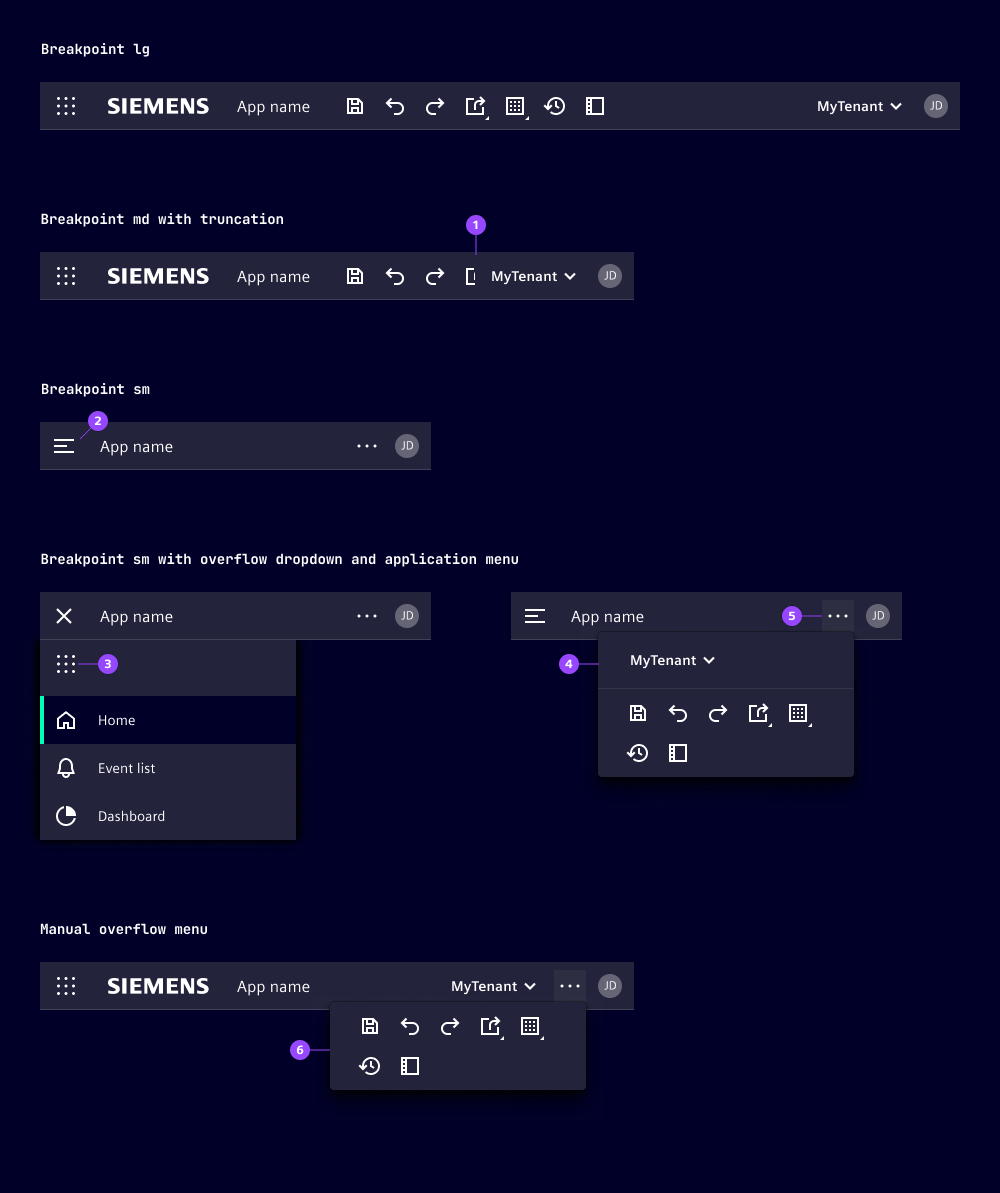
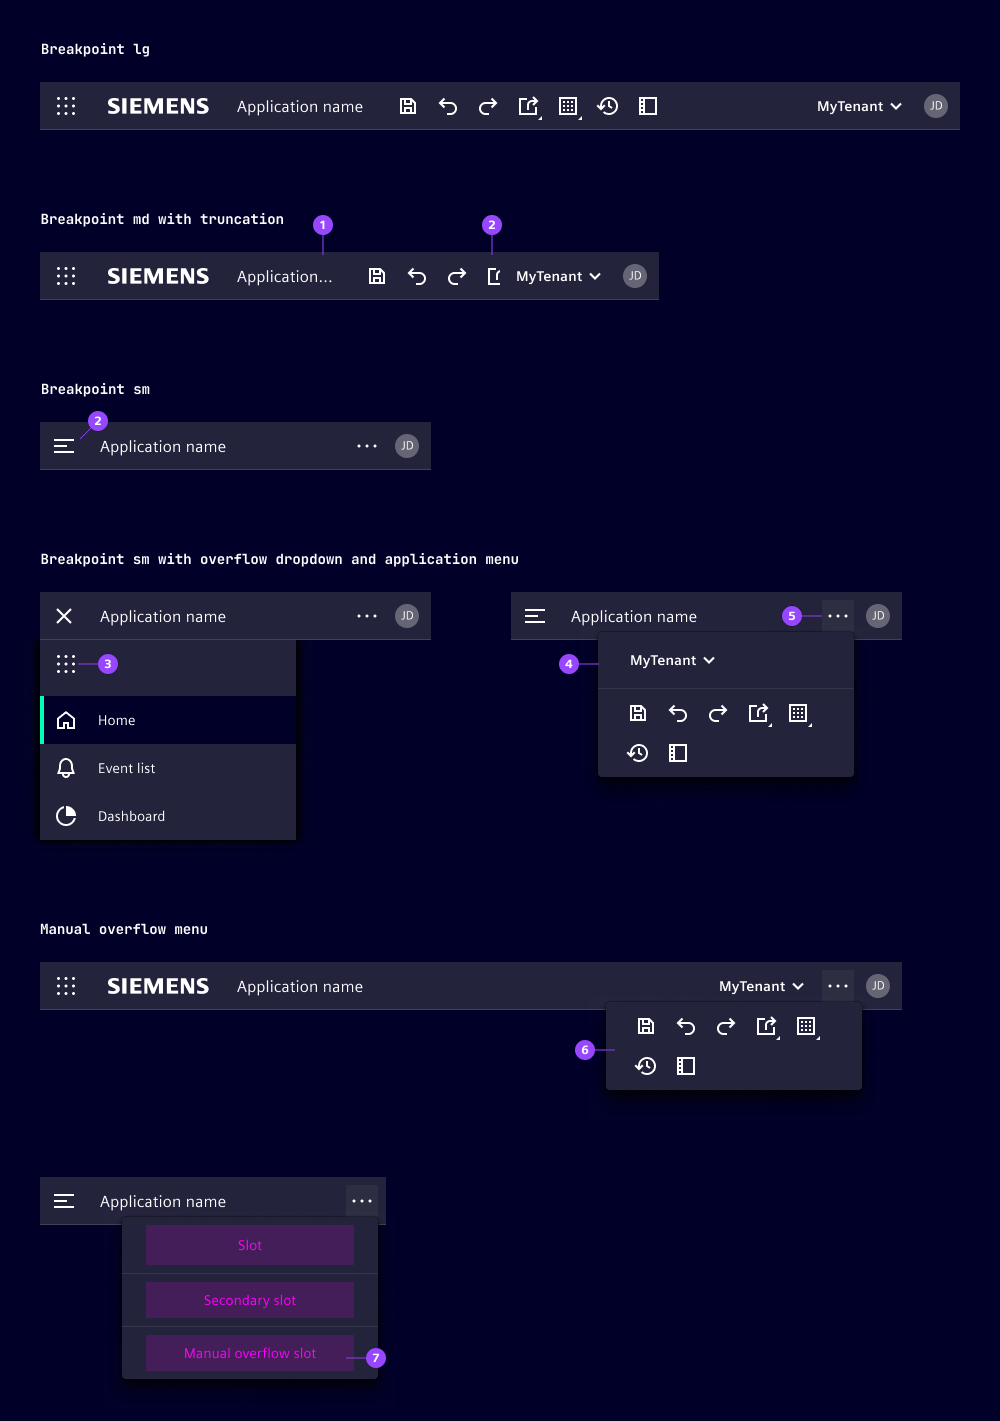
docs: updated figma illustrations

diff --git a/docs/components/application-header/guide.md b/docs/components/application-header/guide.md
@@ -10,14 +10,14 @@ In its simplest version, application headers only show the company logo and the 
 1. Company logo
 2. Application name
 
-The company logo (1) identifies the brand. For Siemens applications, the Siemens logo with the brand theme is the default combination. Contractual agreements may allow partner logos under certain conditions.  
+The **company logo** (1) identifies the brand. For Siemens applications, the Siemens logo with the brand theme is the default combination. Contractual agreements may allow partner logos under certain conditions.  
 The logo adapts its width automatically, height remains fixed. It is colored at runtime based on the selected theme if the following prerequisites are met:
 - Logo is provided as SVG
-- Color of SVG elements are set to "currentcolor"
+- Color of SVG elements are set to `currentcolor`
 
 Without meeting these prerequisites, the logo will appear without any color adaption.
 
-The application name (2) shows the official name of the application. Its width adjusts dynamically but may be truncated if space is limited by other header elements.
+The **application name** (2) shows the official name of the application. Its width adjusts dynamically but may be truncated if space is limited by other header elements.
 
 ## Options
 
